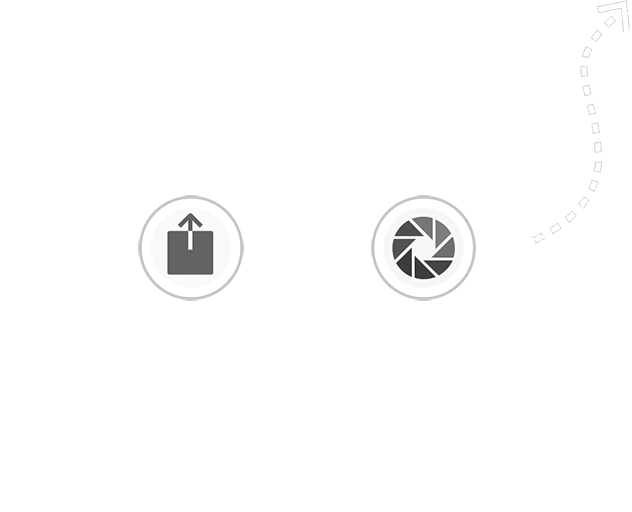
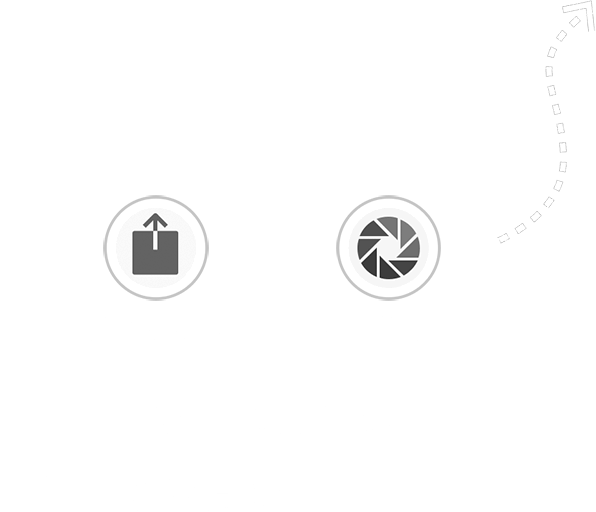
更新图片

diff --git a/src/page/ResultPage.vue b/src/page/ResultPage.vue
@@ -70,8 +70,8 @@ export default {
     margin: 68px 0 0 158px;
 }
 .r-02{
-    width: 450px;
-    margin: 80px 0 0 150px;
+    width: 460px;
+    margin: 80px 0 0 145px;
 }
 .r-btn-group{
     @extend %flex-v-center-h-between;
